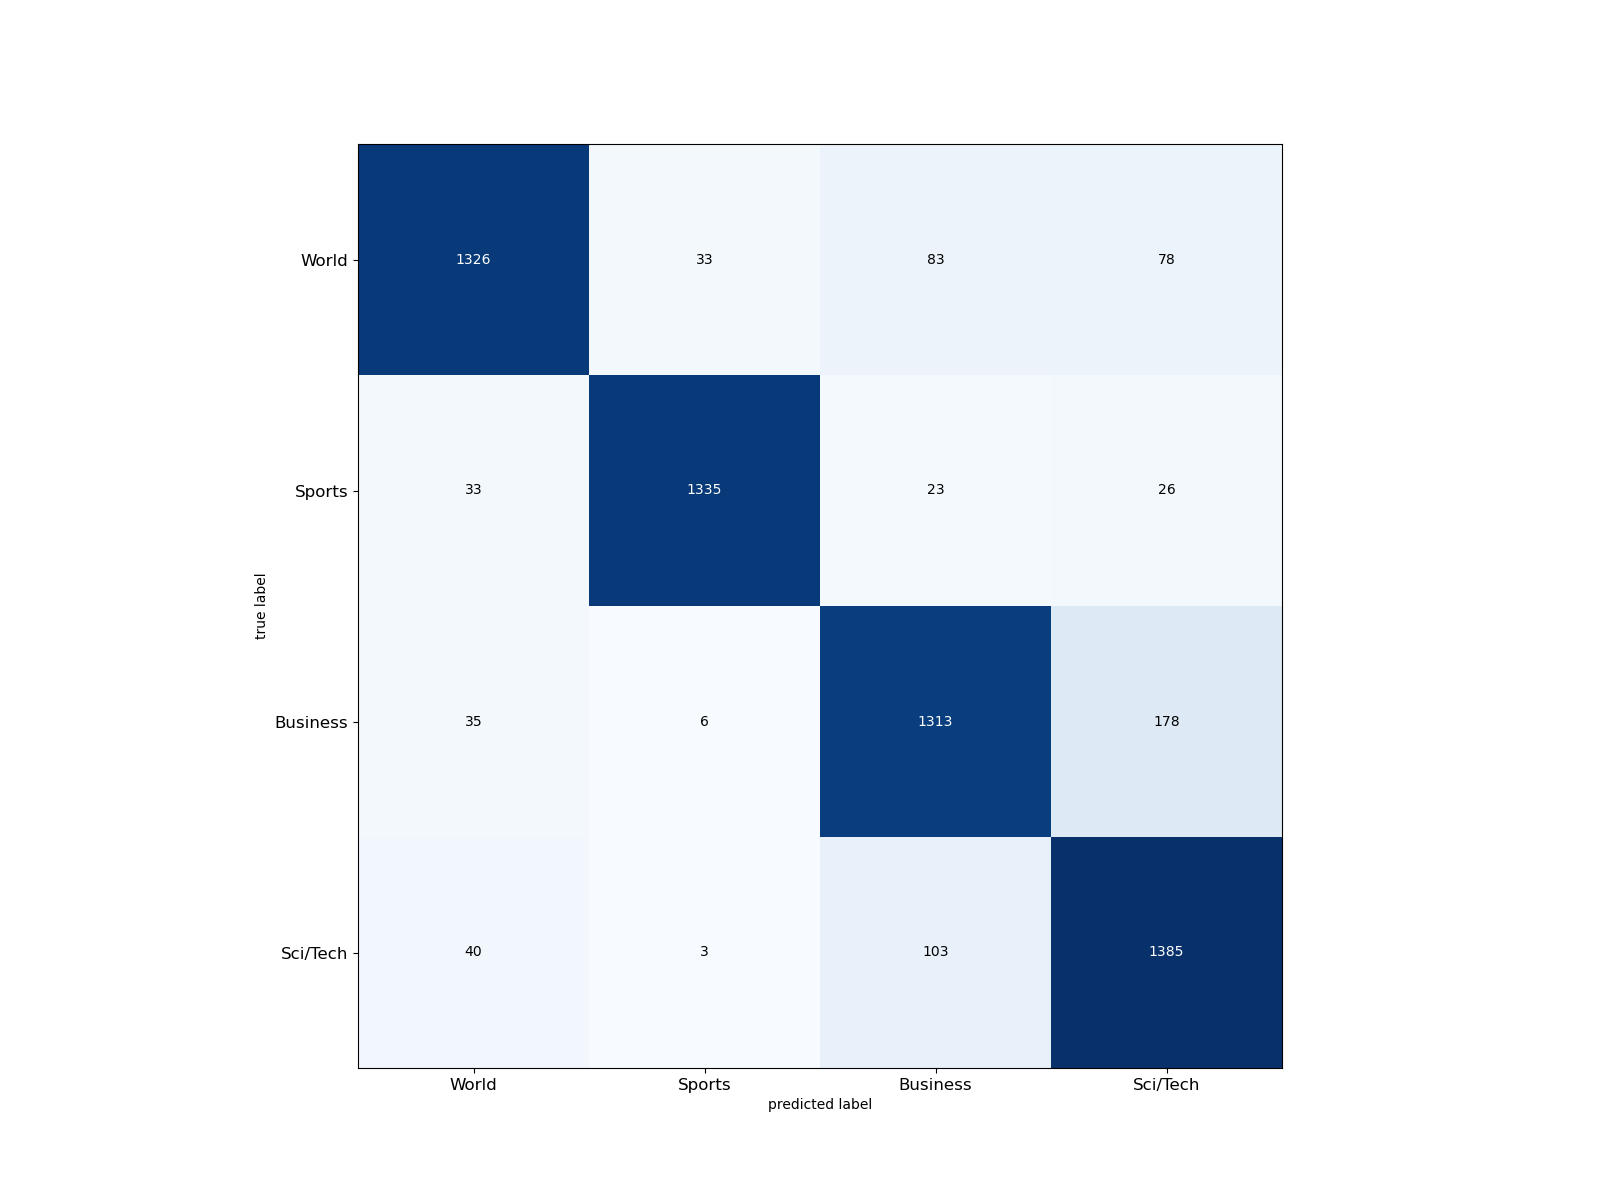
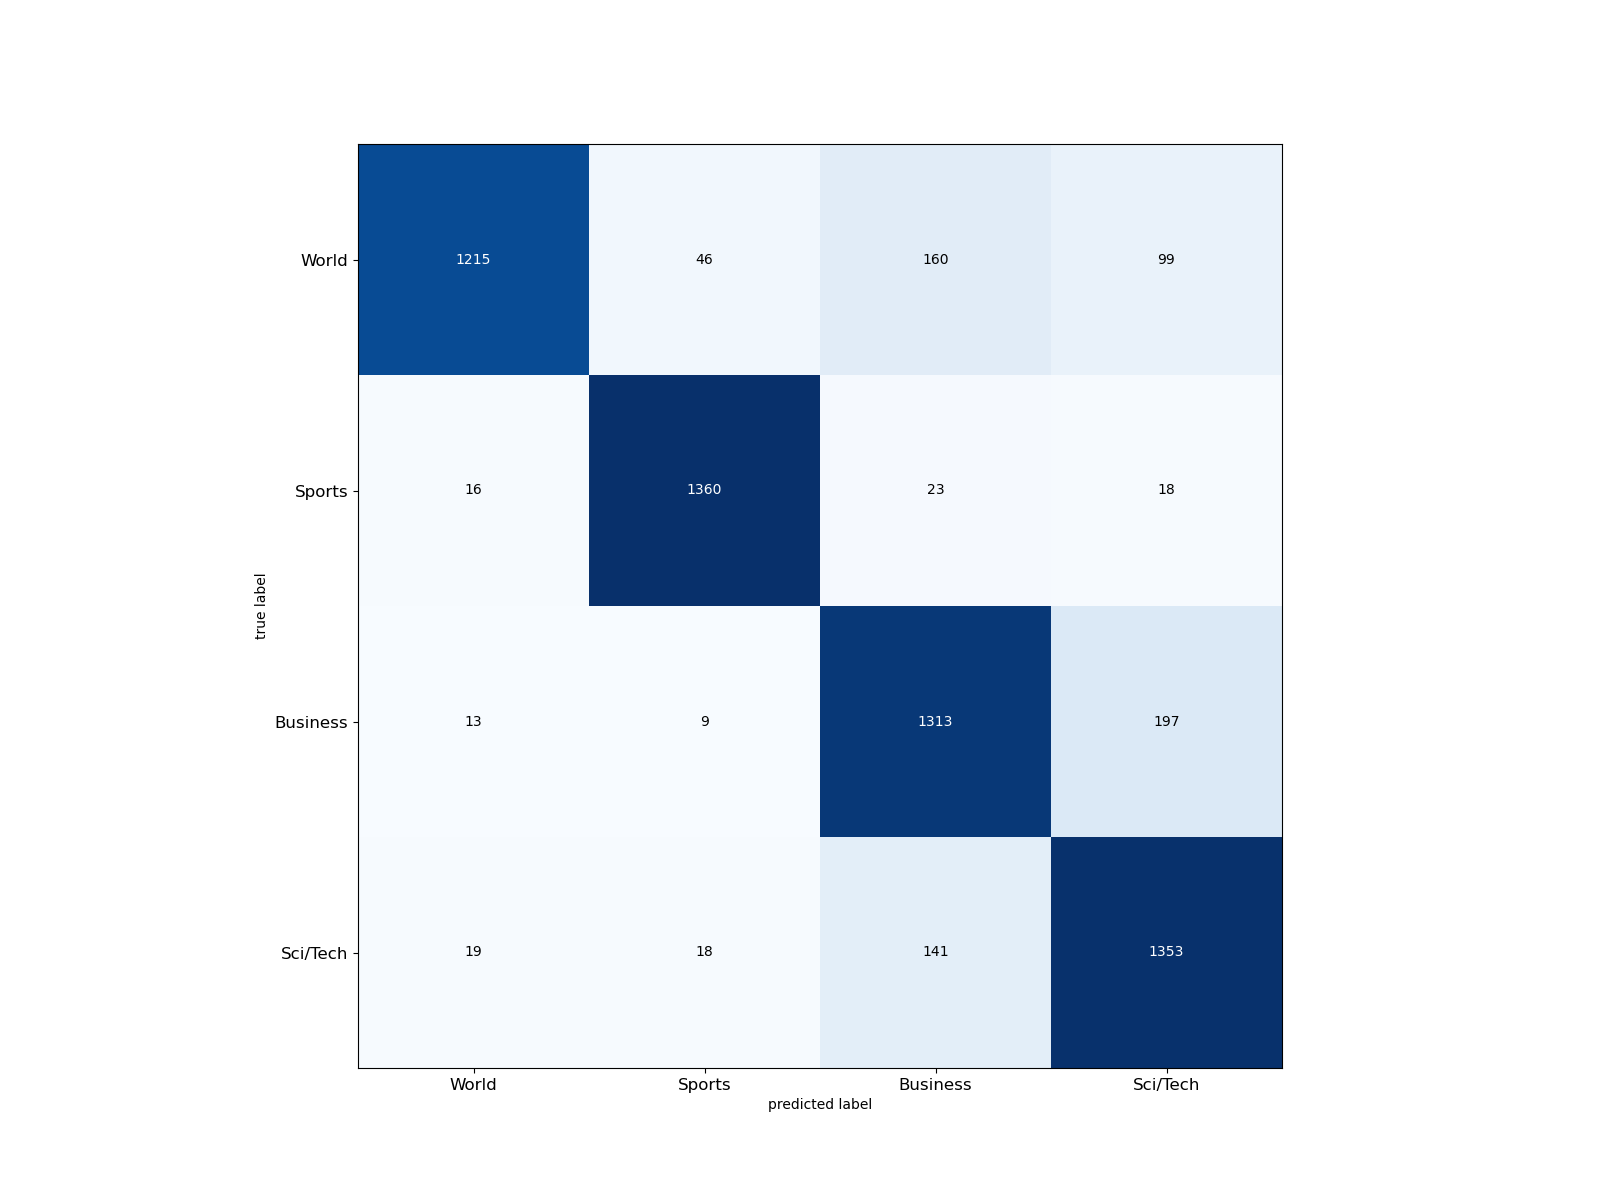
fix

Changed region(s): [[0.2188, 0.1233, 0.375, 0.3392]]

diff --git a/inference.py b/inference.py
@@ -46,7 +46,7 @@ class Trainer:
         if self.network_type == cfg.NetworkType.LSTM:
             self.model: LSTMModel = LSTMModel(
                 self.embedding_weights.shape[0],
-                cfg.OUTPUT_CLASSES,
+                cfg.OUTPUT_SIZE,
                 cfg.EMBEDDING_VECTOR_SIZE,
                 self.embedding_weights,
                 cfg.HIDDEN_STATE_SIZE,
@@ -55,7 +55,7 @@ class Trainer:
         elif self.network_type == cfg.NETWORK_TYPE.LSTM_UNIVERSAL:
             self.model: LSTMPosUniversalModel = LSTMPosUniversalModel(
                 self.embedding_weights.shape[0],
-                cfg.OUTPUT_CLASSES,
+                cfg.OUTPUT_SIZE,
                 cfg.EMBEDDING_VECTOR_SIZE,
                 self.embedding_weights,
                 cfg.HIDDEN_STATE_SIZE,
@@ -65,7 +65,7 @@ class Trainer:
         elif self.network_type == cfg.NETWORK_TYPE.LSTM_PENN:
             self.model: LSTMPosPennModel = LSTMPosPennModel(
                 self.embedding_weights.shape[0],
-                cfg.OUTPUT_CLASSES,
+                cfg.OUTPUT_SIZE,
                 cfg.EMBEDDING_VECTOR_SIZE,
                 self.embedding_weights,
                 cfg.HIDDEN_STATE_SIZE,
@@ -218,7 +218,7 @@ class Tester:
         if self.network_type == cfg.NetworkType.LSTM:
             self.model: LSTMModel = LSTMModel(
                 self.embedding_weights.shape[0],
-                cfg.OUTPUT_CLASSES,
+                cfg.OUTPUT_SIZE,
                 cfg.EMBEDDING_VECTOR_SIZE,
                 self.embedding_weights,
                 cfg.HIDDEN_STATE_SIZE,
@@ -227,7 +227,7 @@ class Tester:
         elif self.network_type == cfg.NETWORK_TYPE.LSTM_UNIVERSAL:
             self.model: LSTMPosUniversalModel = LSTMPosUniversalModel(
                 self.embedding_weights.shape[0],
-                cfg.OUTPUT_CLASSES,
+                cfg.OUTPUT_SIZE,
                 cfg.EMBEDDING_VECTOR_SIZE,
                 self.embedding_weights,
                 cfg.HIDDEN_STATE_SIZE,
@@ -237,7 +237,7 @@ class Tester:
         elif self.network_type == cfg.NETWORK_TYPE.LSTM_PENN:
             self.model: LSTMPosPennModel = LSTMPosPennModel(
                 self.embedding_weights.shape[0],
-                cfg.OUTPUT_CLASSES,
+                cfg.OUTPUT_SIZE,
                 cfg.EMBEDDING_VECTOR_SIZE,
                 self.embedding_weights,
                 cfg.HIDDEN_STATE_SIZE,
@@ -262,7 +262,7 @@ class Tester:
             output = self.model(self.data)
         predictions: Optional[torch.Tensor] = None
         if self.is_multiclass:
-            dim: int = 2 if cfg.TASK_TYPE == cfg.TaskType.NEWS else 1
+            dim: int = 2 if cfg.TASK_TYPE == cfg.TaskType.NEWS and cfg.NETWORK_TYPE != cfg.NetworkType.LSTM else 1
             predictions: torch.Tensor = torch.nn.functional.softmax(output, dim=0).argmax(dim)
         else:
             predictions: torch.Tensor = round(output)

diff --git a/main.py b/main.py
@@ -86,14 +86,13 @@ def main():
     precision: float = 0.0
     recall: float = 0.0
     for i in range(5):
-        if i != 0:
-            Trainer(
-                embedding_matrix,
-                train_dl,
-                val_dl,
-                preprocessor.tokenizer,
-                training_data.shape[1]
-            ).run()
+        Trainer(
+            embedding_matrix,
+            train_dl,
+            val_dl,
+            preprocessor.tokenizer,
+            training_data.shape[1]
+        ).run()
 
         results = Tester(
             embedding_matrix,

diff --git a/config.py b/config.py
@@ -25,12 +25,12 @@ CM_LABELS = ['World', 'Sports', 'Business', 'Technology']
 TASK_TYPE = TaskType.NEWS
 NETWORK_TYPE = NetworkType.LSTM_PENN
 IS_MULTICLASS = True
-TRAIN_DATA_RATIO = 0.9
+TRAIN_DATA_RATIO = 0.92
 BATCH_SIZE = 1
 HIDDEN_STATE_SIZE = 256
 EMBEDDING_VECTOR_SIZE = 100
 NUM_RECURRENT_LAYERS = 1
-OUTPUT_CLASSES = 4
+OUTPUT_SIZE = 4
 VALIDATE_EVERY = 10000
 CLIP_VALUE = 0.1
 
